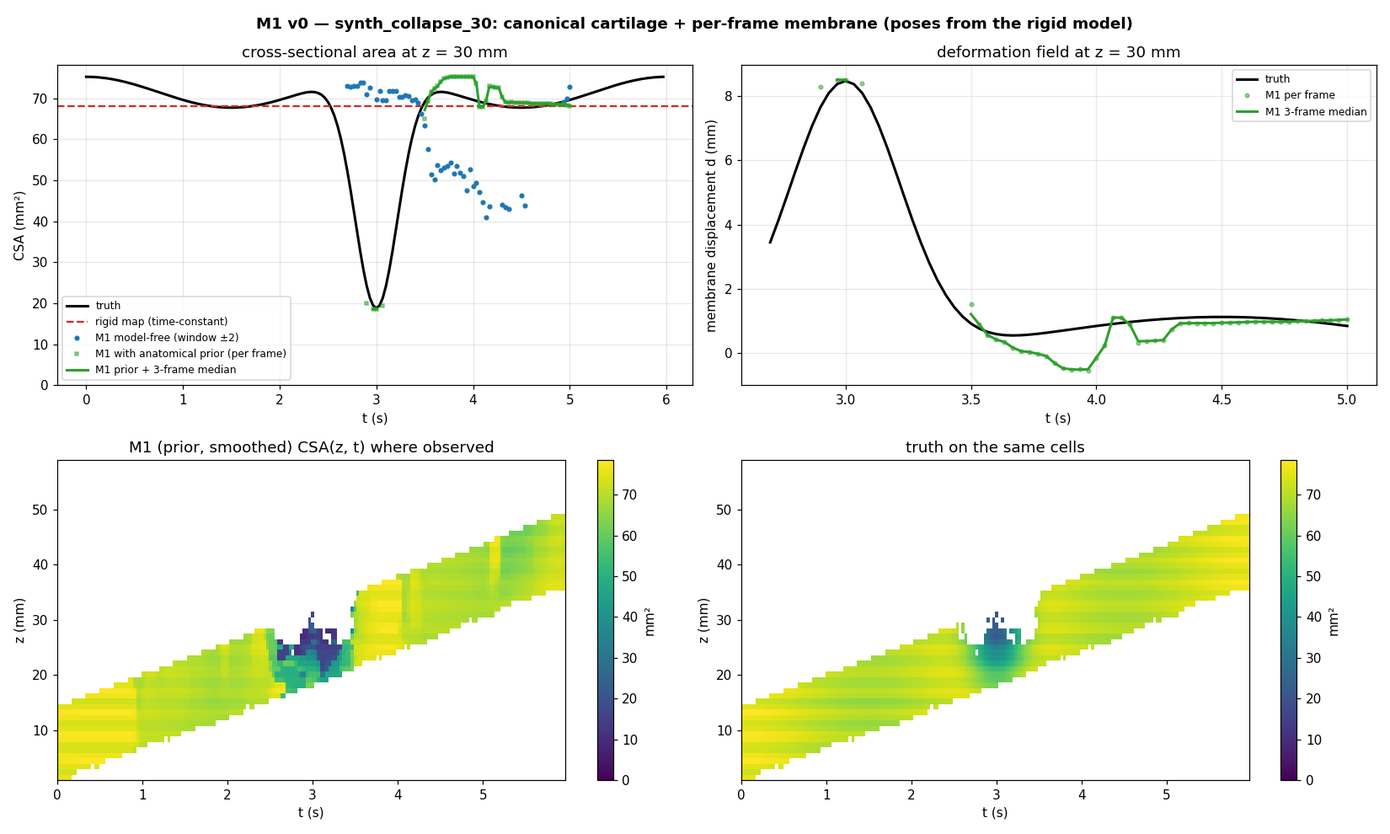
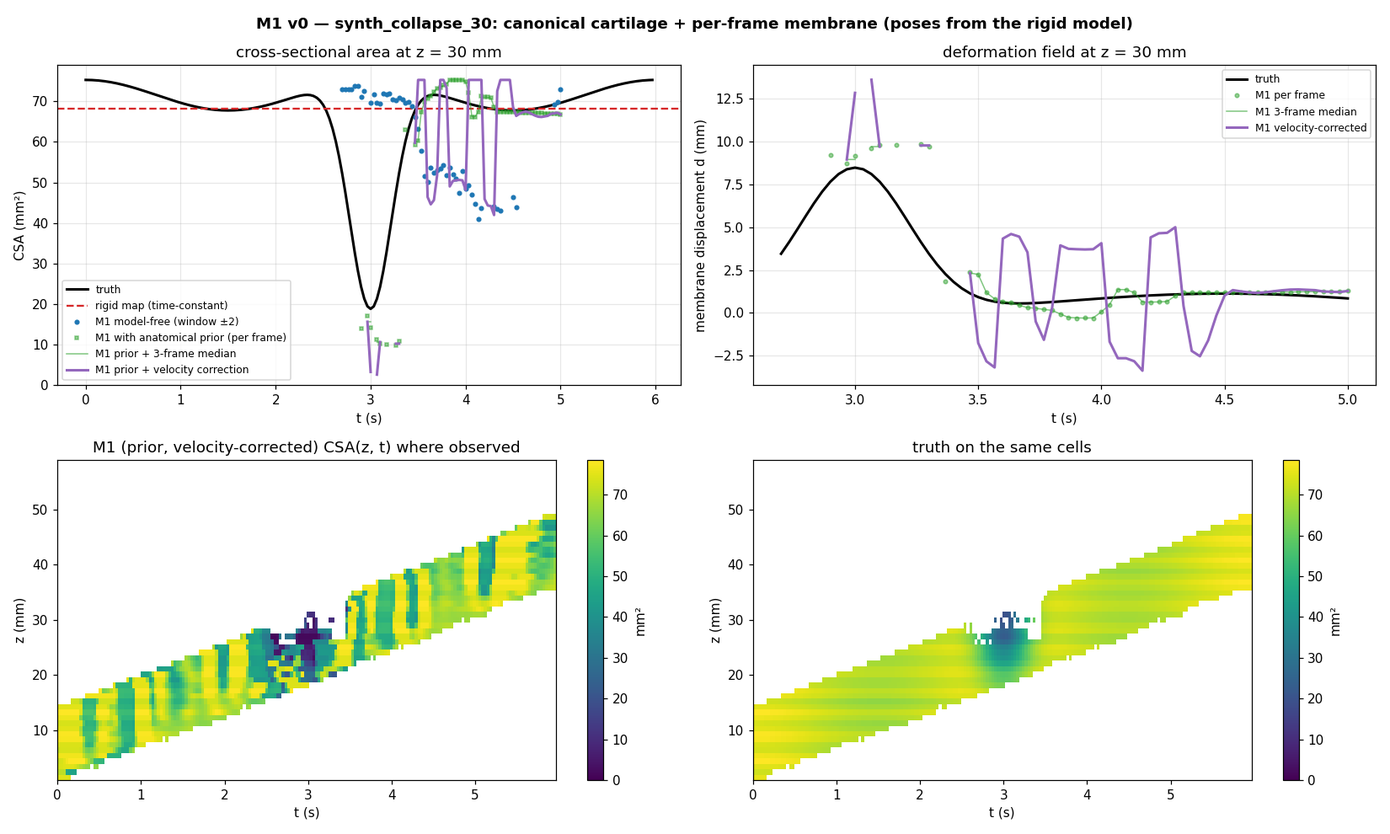
M1: velocity bias of short-window stereo identified and documented; one-sided stereo remedy; real-video status
Per-frame geometric depth places a laterally moving wall with error kappa*v*Z/c (kappa ~0.30 on breathing and
collapse, zero at rest): the wall's image motion over the stereo window is read as parallax, so exact poses do not
make per-frame depth of a moving wall correct. Self-correction from the estimate's derivative fails (disabled by
default). Added --sources past|future for one-sided stereo and combine_sides.py (mean cancels the bias, difference
measures velocity). windowed_depth_real.py: stations along the end cameras' viewing axis, arclength-based selection.
Results document: interim four-scenario table, the bias analysis, and the honest 26-V2 status.

diff --git a/m1/windowed_depth.py b/m1/windowed_depth.py
@@ -27,6 +27,9 @@ ap.add_argument("--ahead", default="4,18", help="stations measured this many mm 
 ap.add_argument("--skip-stereo", action="store_true", help="reuse existing depth maps in <out>/dense")
 ap.add_argument("--min-pts", type=int, default=25, help="minimum posterior points for a displacement estimate")
 ap.add_argument("--dense-from", default=None, help="reuse the depth maps of another run's dense dir (implies --skip-stereo)")
+ap.add_argument("--kappa", default="0", help="velocity-bias coefficient kappa(Z) = a + b*Z (mm), calibrated on breathing; '0' disables")
+ap.add_argument("--vel-iters", type=int, default=2)
+ap.add_argument("--sources", default="sym", choices=["sym", "past", "future"], help="stereo sources for frame k: k-w..k+w (sym), k-w..k-1 (past) or k+1..k+w (future)")
 a = ap.parse_args(); os.makedirs(a.out, exist_ok=True); COLMAP = os.environ.get("BRONCHO_COLMAP", "colmap"); MIN_PTS = a.min_pts
 sys.path.insert(0, os.path.join(os.path.dirname(os.path.abspath(__file__)), "..", "synthetic")); import deforming_trachea as dt
 
@@ -92,7 +95,9 @@ print(f"scene->mm: scale {s:.4f} mm/unit, camera-centre RMSE after alignment {np
 if not a.skip_stereo:
     with open(f"{dense}/stereo/patch-match.cfg", "w") as f:
         for k, n in zip(frames, names):
-            src = [byidx[j] for j in range(k - a.window, k + a.window + 1) if j != k and j in byidx]
+            rng_ = range(k - a.window, k + a.window + 1) if a.sources == "sym" else (range(k - a.window, k) if a.sources == "past" else range(k + 1, k + a.window + 1))
+            src = [byidx[j] for j in rng_ if j != k and j in byidx]
+            if not src: src = [byidx[j] for j in range(k - a.window, k + a.window + 1) if j != k and j in byidx]
             f.write(n + "\n" + ", ".join(src) + "\n")
     sh([COLMAP, "patch_match_stereo", "--workspace_path", dense, "--workspace_format", "COLMAP", "--PatchMatchStereo.geom_consistency", "true",
         "--PatchMatchStereo.max_image_size", str(a.max_size), "--PatchMatchStereo.gpu_index", a.gpus,
@@ -131,7 +136,7 @@ def membrane_d(x, y, r_can):
     return float(np.median((xi[use] + xa[use]) / w0[use])) if use.sum() >= MIN_PTS else np.nan
 
 
-depth_dir = f"{dense}/stereo/depth_maps"; n_used = 0
+depth_dir = f"{dense}/stereo/depth_maps"; n_used = 0; zc_arr = np.full(N, np.nan)
 for j, (k, n) in enumerate(zip(frames, names)):
     fp = f"{depth_dir}/{n}.geometric.bin"
     if not os.path.exists(fp): continue
@@ -139,7 +144,7 @@ for j, (k, n) in enumerate(zip(frames, names)):
     h_, w_ = dep.shape; sx, sy = w_ / W, h_ / H; fx, cx, fy, cy = fx * sx, cx * sx, fy * sy, cy * sy      # depth maps may be downscaled relative to the camera record
     v, u = np.mgrid[0:h_:2, 0:w_:2]; d_ = dep[::2, ::2]; ok = d_ > 0
     Xc = np.stack([(u[ok] - cx) / fx * d_[ok], (v[ok] - cy) / fy * d_[ok], d_[ok]], 1)
-    Xw = (Rc2w[j] @ Xc.T).T + C[j]; Pmm = (s * (Ro @ Xw.T)).T + tro; zc = float(((s * (Ro @ C[j])) + tro)[2])
+    Xw = (Rc2w[j] @ Xc.T).T + C[j]; Pmm = (s * (Ro @ Xw.T)).T + tro; zc = float(((s * (Ro @ C[j])) + tro)[2]); zc_arr[k] = zc
     n_used += 1
     for i, zz in enumerate(zs):
         if not (zc + lo_ahead <= zz <= zc + hi_ahead): continue
@@ -170,6 +175,34 @@ for i in range(nz):
             est["d_smooth"][k, i] = float(np.median(win))
             Xm, Ym = dt.deform_xy(r0[iz_gt[i]:iz_gt[i] + 1], th, (max(est["d_smooth"][k, i], 0.0) * w_memb)[None, :], p); est["csa_model_s"][k, i] = float(dt.csa_from_xy(Xm, Ym)[0])
 
+# velocity correction. Short-window stereo on a laterally moving surface converts the surface's image motion into
+# parallax: the depth of the membrane is biased by kappa * v_out * Z / c (v_out = outward radial velocity of the wall,
+# Z = distance ahead of the camera, c = camera speed), measured against the truth on breathing (kappa ~ 0.30, zero at
+# rest). The estimate carries its own time series, so the velocity is available and the bias is removed iteratively.
+ka, kb = (float(v) for v in (a.kappa.split(",") + ["0"])[:2]) if a.kappa != "0" else (0.0, 0.0)
+zc_f = np.interp(np.arange(N), np.where(np.isfinite(zc_arr))[0], zc_arr[np.isfinite(zc_arr)]); cam_speed = float(np.median(np.abs(np.diff(zc_f))) * p.fps)
+Zahead = zs[None, :] - zc_f[:, None]; est["d_vel"] = est["d_smooth"].copy(); est["csa_model_v"] = np.full((N, nz), np.nan)
+if ka != 0 or kb != 0:
+    def robust_rate(dser, hw=3, min_n=4):
+        """d(d)/dt per frame from a local linear fit over +-hw frames; NaN where fewer than min_n samples support it."""
+        out = np.full(len(dser), np.nan)
+        for k in range(len(dser)):
+            lo, hi = max(0, k - hw), min(len(dser), k + hw + 1); seg = dser[lo:hi]; tt = t[lo:hi]; fin = np.isfinite(seg)
+            if fin.sum() >= min_n and (tt[fin].max() - tt[fin].min()) >= 3 / p.fps: out[k] = np.polyfit(tt[fin], seg[fin], 1)[0]
+        return out
+    kap = ka + kb * Zahead; dv = est["d_smooth"].copy()
+    for it in range(a.vel_iters):
+        ddt = np.full((N, nz), np.nan)
+        for i in range(nz): ddt[:, i] = robust_rate(dv[:, i])
+        corr = np.clip(kap * ddt * Zahead / cam_speed, -4.0, 4.0)                          # v_out = -d(d)/dt; bounded correction
+        dv = np.where(np.isfinite(corr), est["d_smooth"] + corr, est["d_smooth"])
+    est["d_vel"] = dv
+    for k in range(N):
+        for i in np.where(np.isfinite(est["d_vel"][k]))[0]:
+            Xm, Ym = dt.deform_xy(r0[iz_gt[i]:iz_gt[i] + 1], th, (max(est["d_vel"][k, i], 0.0) * w_memb)[None, :], p); est["csa_model_v"][k, i] = float(dt.csa_from_xy(Xm, Ym)[0])
+    print(f"velocity correction: kappa(Z) = {ka} + {kb}*Z, camera speed {cam_speed:.2f} mm/s, {a.vel_iters} iterations")
+else: est["csa_model_v"] = est["csa_model_s"].copy() if "csa_model_s" in est else est["csa_model"].copy()
+
 # ---------------------------------------------------------------- 3. metrics vs truth and vs the rigid map
 ok = np.isfinite(est["csa_model"]) & np.isfinite(gt["csa"]) & (est["cov"] >= 0.6); okf = ok & np.isfinite(est["csa_free"])
 rel_free = est["csa_free"][okf] / gt["csa"][okf] - 1; rel_model = est["csa_model"][ok] / gt["csa"][ok] - 1
@@ -179,6 +212,9 @@ res = dict(workspace=a.workspace, synth_run=a.synth_run, window=a.window, frames
            csa_model_rel_err_median=float(np.median(rel_model)), csa_model_rel_err_iqr=[float(np.percentile(rel_model, 25)), float(np.percentile(rel_model, 75))], csa_model_rel_err_p90_abs=float(np.percentile(np.abs(rel_model), 90)),
            cartilage_radius_dev_mm_median=float(np.nanmedian(np.abs(est["r_cart_dev"][ok]))), cartilage_radius_dev_mm_p90=float(np.nanpercentile(np.abs(est["r_cart_dev"][ok]), 90)),
            membrane_d_err_mm_median=float(np.median(np.abs(est["d_est"][ok] - gt["d"][ok]))), membrane_d_err_mm_p90=float(np.percentile(np.abs(est["d_est"][ok] - gt["d"][ok]), 90)))
+okv = ok & np.isfinite(est["csa_model_v"]); rel_v = est["csa_model_v"][okv] / gt["csa"][okv] - 1
+res.update(csa_model_vel_rel_err_median=float(np.median(rel_v)), csa_model_vel_rel_err_iqr=[float(np.percentile(rel_v, 25)), float(np.percentile(rel_v, 75))], csa_model_vel_rel_err_p90_abs=float(np.percentile(np.abs(rel_v), 90)),
+           membrane_d_vel_err_mm_median=float(np.median(np.abs(est["d_vel"][okv] - gt["d"][okv]))), membrane_d_vel_err_mm_p90=float(np.percentile(np.abs(est["d_vel"][okv] - gt["d"][okv]), 90)), kappa=a.kappa, camera_speed_mm_s=cam_speed)
 oks = ok & np.isfinite(est["csa_model_s"]); rel_s = est["csa_model_s"][oks] / gt["csa"][oks] - 1
 res.update(csa_model_smoothed_rel_err_median=float(np.median(rel_s)), csa_model_smoothed_rel_err_iqr=[float(np.percentile(rel_s, 25)), float(np.percentile(rel_s, 75))], csa_model_smoothed_rel_err_p90_abs=float(np.percentile(np.abs(rel_s), 90)),
            membrane_d_smoothed_err_mm_median=float(np.median(np.abs(est["d_smooth"][oks] - gt["d"][oks]))), membrane_d_smoothed_err_mm_p90=float(np.percentile(np.abs(est["d_smooth"][oks] - gt["d"][oks]), 90)))
@@ -206,6 +242,8 @@ if P.get("collapse_target", 0) > 0 or P.get("breath_target", 0) > 0:
                                     event_window_frames_seen=int(ev.sum()), event_window_frames_estimated=int(np.isin(seen_k[ev], kk).sum()))
         es = est["csa_model_s"][kk, i0]; oks_ = np.isfinite(es)
         if oks_.any(): res["event_station"].update(est_smoothed_min_csa=float(np.nanmin(es)), est_smoothed_reduction=float(1 - np.nanmin(es) / CSA_gt[0, iz_gt[i0]]), rmse_smoothed=float(np.sqrt(((es[oks_] - gg[oks_]) ** 2).mean())))
+        ev_ = est["csa_model_v"][kk, i0]; okv_ = np.isfinite(ev_)
+        if okv_.any(): res["event_station"].update(est_vel_min_csa=float(np.nanmin(ev_)), est_vel_reduction=float(1 - np.nanmin(ev_) / CSA_gt[0, iz_gt[i0]]), est_vel_min_t=float(t[kk[int(np.nanargmin(ev_))]]), rmse_vel=float(np.sqrt(((ev_[okv_] - gg[okv_]) ** 2).mean())))
 json.dump(res, open(f"{a.out}/m1_result.json", "w"), indent=1); np.savez_compressed(f"{a.out}/m1_grid.npz", zs=zs, t=t, **{f"est_{k}": v for k, v in est.items()}, **{f"gt_{k}": v for k, v in gt.items()})
 for k_, v_ in res.items():
     if k_ != "event_station": print(f"  {k_}: {v_}")
@@ -216,12 +254,12 @@ import matplotlib; matplotlib.use("Agg"); import matplotlib.pyplot as plt
 fig, axs = plt.subplots(2, 2, figsize=(15, 9)); i0 = int(np.argmin(np.abs(zs - P.get("collapse_z0_mm", 30)))) if P.get("collapse_target", 0) > 0 else nz // 2
 ax = axs[0, 0]; ax.plot(t, CSA_gt[:, iz_gt[i0]], "k-", lw=2, label="truth")
 if rig is not None: ax.axhline(rig[i0], color="tab:red", ls="--", label="rigid map (time-constant)")
-ax.plot(t, est["csa_free"][:, i0], "o", ms=3, color="tab:blue", label=f"M1 model-free (window ±{a.window})"); ax.plot(t, est["csa_model"][:, i0], "s", ms=3, color="tab:green", alpha=.5, label="M1 with anatomical prior (per frame)"); ax.plot(t, est["csa_model_s"][:, i0], "-", lw=2, color="tab:green", label="M1 prior + 3-frame median")
+ax.plot(t, est["csa_free"][:, i0], "o", ms=3, color="tab:blue", label=f"M1 model-free (window ±{a.window})"); ax.plot(t, est["csa_model"][:, i0], "s", ms=3, color="tab:green", alpha=.5, label="M1 with anatomical prior (per frame)"); ax.plot(t, est["csa_model_s"][:, i0], "-", lw=1, color="tab:green", alpha=.6, label="M1 prior + 3-frame median"); ax.plot(t, est["csa_model_v"][:, i0], "-", lw=2, color="tab:purple", label="M1 prior + velocity correction")
 ax.set_xlabel("t (s)"); ax.set_ylabel("CSA (mm²)"); ax.set_title(f"cross-sectional area at z = {zs[i0]:.0f} mm"); ax.legend(fontsize=8); ax.grid(alpha=.3); ax.set_ylim(bottom=0)
-ax = axs[0, 1]; ax.plot(t, gt["d"][:, i0], "k-", lw=2, label="truth"); ax.plot(t, est["d_est"][:, i0], "o", ms=3, color="tab:green", alpha=.5, label="M1 per frame"); ax.plot(t, est["d_smooth"][:, i0], "-", lw=2, color="tab:green", label="M1 3-frame median")
+ax = axs[0, 1]; ax.plot(t, gt["d"][:, i0], "k-", lw=2, label="truth"); ax.plot(t, est["d_est"][:, i0], "o", ms=3, color="tab:green", alpha=.5, label="M1 per frame"); ax.plot(t, est["d_smooth"][:, i0], "-", lw=1, color="tab:green", alpha=.6, label="M1 3-frame median"); ax.plot(t, est["d_vel"][:, i0], "-", lw=2, color="tab:purple", label="M1 velocity-corrected")
 ax.set_xlabel("t (s)"); ax.set_ylabel("membrane displacement d (mm)"); ax.set_title(f"deformation field at z = {zs[i0]:.0f} mm"); ax.legend(fontsize=8); ax.grid(alpha=.3)
-ax = axs[1, 0]; m = ax.imshow(np.where(ok, est["csa_model_s"], np.nan).T, origin="lower", aspect="auto", extent=[t[0], t[-1], zs[0], zs[-1]], cmap="viridis", vmin=0, vmax=np.nanmax(CSA_gt))
-ax.set_xlabel("t (s)"); ax.set_ylabel("z (mm)"); ax.set_title("M1 (prior, smoothed) CSA(z, t) where observed"); plt.colorbar(m, ax=ax, label="mm²")
+ax = axs[1, 0]; m = ax.imshow(np.where(ok, est["csa_model_v"], np.nan).T, origin="lower", aspect="auto", extent=[t[0], t[-1], zs[0], zs[-1]], cmap="viridis", vmin=0, vmax=np.nanmax(CSA_gt))
+ax.set_xlabel("t (s)"); ax.set_ylabel("z (mm)"); ax.set_title("M1 (prior, velocity-corrected) CSA(z, t) where observed"); plt.colorbar(m, ax=ax, label="mm²")
 ax = axs[1, 1]; m = ax.imshow(np.where(ok, gt["csa"], np.nan).T, origin="lower", aspect="auto", extent=[t[0], t[-1], zs[0], zs[-1]], cmap="viridis", vmin=0, vmax=np.nanmax(CSA_gt))
 ax.set_xlabel("t (s)"); ax.set_ylabel("z (mm)"); ax.set_title("truth on the same cells"); plt.colorbar(m, ax=ax, label="mm²")
 fig.suptitle(f"M1 v0 — {os.path.basename(a.synth_run)}: canonical cartilage + per-frame membrane (poses from the rigid model)", fontweight="bold"); fig.tight_layout()

diff --git a/m1/combine_sides.py b/m1/combine_sides.py
@@ -1,0 +1,57 @@
+"""Motion-compensated estimate from two one-sided stereo runs.
+
+Short-window stereo on a laterally moving wall converts the wall's image motion into parallax; the resulting bias in
+the membrane displacement is proportional to the wall velocity and has opposite sign for sources taken before and
+after the reference frame. So with d_past (sources k-w..k-1) and d_future (sources k+1..k+w):
+    d = (d_past + d_future) / 2          bias cancels to first order (no calibration constant)
+    d_past - d_future  ~  wall velocity  (sign and scale reported against the truth)
+Usage: python m1/combine_sides.py runs/m1_collapse_past runs/m1_collapse_future runs/synth_collapse_30 --out runs/m1_collapse_sides
+"""
+import sys, os, json, argparse
+import numpy as np
+
+ap = argparse.ArgumentParser(); ap.add_argument("past"); ap.add_argument("future"); ap.add_argument("synth_run"); ap.add_argument("--out", required=True); ap.add_argument("--rigid", default=None, help="score_rigid json of the rigid workspace (for the baseline line)")
+a = ap.parse_args(); os.makedirs(a.out, exist_ok=True)
+sys.path.insert(0, os.path.join(os.path.dirname(os.path.abspath(__file__)), "..", "synthetic")); import deforming_trachea as dt
+g = np.load(f"{a.synth_run}/gt.npz"); P = json.loads(str(g["params"])); p = dt.Params(**P); t, z, th, r0, CSA_gt, D = g["t"], g["z"], g["theta"], g["r_canonical"], g["csa_mm2"], g["deformation"].astype(np.float32)
+w_memb, _ = dt.sector_weights(th, p)
+A, B = np.load(f"{a.past}/m1_grid.npz"), np.load(f"{a.future}/m1_grid.npz"); zs = A["zs"]; iz = np.array([int(np.argmin(np.abs(z - zz))) for zz in zs]); N, nz = len(t), len(zs)
+dp, df = A["est_d_smooth"], B["est_d_smooth"]; both = np.isfinite(dp) & np.isfinite(df)
+d_comb = np.where(both, 0.5 * (dp + df), np.where(np.isfinite(dp), dp, df))          # fall back to whichever side exists (biased) and flag it
+one_sided = np.isfinite(d_comb) & ~both
+vel_proxy = np.where(both, dp - df, np.nan)
+gt_d = A["gt_d"]; cov = np.fmax(np.nan_to_num(A["est_cov"], nan=0), np.nan_to_num(B["est_cov"], nan=0))
+csa = np.full((N, nz), np.nan)
+for k in range(N):
+    for i in np.where(np.isfinite(d_comb[k]))[0]:
+        X, Y = dt.deform_xy(r0[iz[i]:iz[i] + 1], th, (max(d_comb[k, i], 0.0) * w_memb)[None, :], p); csa[k, i] = float(dt.csa_from_xy(X, Y)[0])
+gt_csa = np.array([[CSA_gt[k, iz[i]] for i in range(nz)] for k in range(N)])
+ok = np.isfinite(csa) & (cov >= 0.6); okb = ok & both
+rel = csa[okb] / gt_csa[okb] - 1; derr = np.abs(d_comb[okb] - gt_d[okb])
+res = dict(cells_both=int(okb.sum()), cells_one_sided=int((ok & one_sided).sum()), csa_rel_err_median=float(np.median(rel)), csa_rel_err_iqr=[float(np.percentile(rel, 25)), float(np.percentile(rel, 75))], csa_rel_err_p90_abs=float(np.percentile(np.abs(rel), 90)),
+           d_err_mm_median=float(np.median(derr)), d_err_mm_p90=float(np.percentile(derr, 90)))
+for lab, arr in (("past", dp), ("future", df)):
+    m = okb & np.isfinite(arr); e = np.abs(arr[m] - gt_d[m]); res[f"d_err_{lab}_median"] = float(np.median(e)); res[f"d_err_{lab}_p90"] = float(np.percentile(e, 90))
+# velocity proxy vs truth: d_past - d_future against -d(d_gt)/dt
+ddt = np.gradient(gt_d, t, axis=0); m = okb & np.isfinite(vel_proxy) & (np.abs(ddt) > 0.5)
+if m.sum() > 20:
+    slope = np.polyfit(ddt[m], vel_proxy[m], 1); res.update(velocity_proxy_slope_mm_per_mm_s=float(slope[0]), velocity_proxy_corr=float(np.corrcoef(ddt[m], vel_proxy[m])[0, 1]))
+# event station
+if P.get("collapse_target", 0) > 0 or P.get("breath_target", 0) > 0:
+    i0 = int(np.argmin(np.abs(zs - P["collapse_z0_mm"]))) if P.get("collapse_target", 0) > 0 else nz // 2; kk = np.where(okb[:, i0])[0]
+    if len(kk):
+        e, gg = csa[kk, i0], gt_csa[kk, i0]; res["event_station"] = dict(z_mm=float(zs[i0]), n_frames=int(len(kk)), gt_reduction=float(1 - gg.min() / CSA_gt[0, iz[i0]]), est_reduction=float(1 - e.min() / CSA_gt[0, iz[i0]]), est_min_t=float(t[kk[np.argmin(e)]]), gt_min_t=float(t[kk[np.argmin(gg)]]), rmse=float(np.sqrt(((e - gg) ** 2).mean())))
+        if a.rigid and os.path.exists(a.rigid):
+            S = json.load(open(a.rigid)); dn = S.get("dense", {})
+            if dn.get("zc"): rig = float(np.interp(zs[i0], dn["zc"], dn["csa_z_mm2"])); res["event_station"].update(rigid_csa=rig, rmse_rigid=float(np.sqrt(((rig - gg) ** 2).mean())))
+json.dump(res, open(f"{a.out}/sides_result.json", "w"), indent=1); np.savez_compressed(f"{a.out}/sides_grid.npz", zs=zs, t=t, d_comb=d_comb, d_past=dp, d_future=df, vel_proxy=vel_proxy, csa=csa, gt_csa=gt_csa, gt_d=gt_d)
+print(json.dumps(res, indent=1))
+import matplotlib; matplotlib.use("Agg"); import matplotlib.pyplot as plt
+fig, axs = plt.subplots(1, 3, figsize=(17, 4.8)); i0 = int(np.argmin(np.abs(zs - P.get("collapse_z0_mm", 30)))) if P.get("collapse_target", 0) > 0 else nz // 2
+ax = axs[0]; ax.plot(t, gt_d[:, i0], "k-", lw=2, label="truth"); ax.plot(t, dp[:, i0], ".", ms=4, color="tab:orange", label="sources in the past"); ax.plot(t, df[:, i0], ".", ms=4, color="tab:cyan", label="sources in the future"); ax.plot(t, d_comb[:, i0], "-", lw=2, color="tab:purple", label="mean of both")
+ax.set_xlabel("t (s)"); ax.set_ylabel("membrane displacement (mm)"); ax.set_title(f"one-sided stereo biases cancel: z = {zs[i0]:.0f} mm"); ax.legend(fontsize=8); ax.grid(alpha=.3)
+ax = axs[1]; ax.plot(t, gt_csa[:, i0], "k-", lw=2, label="truth"); ax.plot(t, csa[:, i0], "-", lw=2, color="tab:purple", label="M1 (mean of one-sided)")
+if "event_station" in res and "rigid_csa" in res["event_station"]: ax.axhline(res["event_station"]["rigid_csa"], color="tab:red", ls="--", label="rigid map")
+ax.set_xlabel("t (s)"); ax.set_ylabel("CSA (mm²)"); ax.set_title("cross-sectional area at the event station"); ax.legend(fontsize=8); ax.grid(alpha=.3); ax.set_ylim(bottom=0)
+ax = axs[2]; mm = okb & np.isfinite(vel_proxy); ax.plot(ddt[mm], vel_proxy[mm], ".", ms=2, alpha=.4); ax.set_xlabel("true d(d)/dt (mm/s)"); ax.set_ylabel("d_past − d_future (mm)"); ax.set_title("the difference of the two sides measures wall velocity"); ax.grid(alpha=.3)
+fig.suptitle(f"motion-compensated M1 — {os.path.basename(a.synth_run)}", fontweight="bold"); fig.tight_layout(); fig.savefig(f"{a.out}/sides.png", dpi=110); print("figure:", f"{a.out}/sides.png")

diff --git a/m1/windowed_depth_real.py b/m1/windowed_depth_real.py
@@ -90,6 +90,15 @@ for j in range(0, N, max(1, N // 12)):
     Xc = np.stack([(u[ok] - cx * sx) / (fx * sx) * d_[ok], (v[ok] - cy * sy) / (fy * sy) * d_[ok], d_[ok]], 1); Xw = (Rc2w[j] @ Xc.T).T + C[j]
     dist, idx = tree_path.query(Xw); inside = (idx > 2) & (idx < N - 3); sample_r.append(dist[inside])
 R = float(np.median(np.concatenate(sample_r))); print(f"tube radius estimate R = {R:.4f} scene units; path length {L_path / R:.1f} R")
+# extend the path straight along its end tangents so that stations exist ahead of the first (and last) cameras: on a
+# withdrawal the camera looks at wall the path never reaches
+ext = 4.0 * R; nb_ = min(10, N - 1)
+ax0 = Rc2w[:nb_, :, 2].mean(0); ax0 /= np.linalg.norm(ax0); ax1 = Rc2w[-nb_:, :, 2].mean(0); ax1 /= np.linalg.norm(ax1)       # where the first / last cameras look
+body0 = Cs[min(N - 1, 30)] - Cs[0]; body1 = Cs[max(0, N - 31)] - Cs[-1]                                                         # direction into the path body from each end
+pre = [Cs[0] + ext * ax0] if (ax0 @ body0) < 0.3 * np.linalg.norm(body0) else []                                                # extend only where the view leaves the path
+post = [Cs[-1] + ext * ax1] if (ax1 @ body1) < 0.3 * np.linalg.norm(body1) else []
+Cs = np.vstack(pre + [Cs] + post); seg = np.linalg.norm(np.diff(Cs, axis=0), axis=1); arc = np.concatenate([[0], np.cumsum(seg)]); L_path = arc[-1]
+print(f"path extended at start: {bool(pre)}, at end: {bool(post)} (along the mean viewing axis of the end frames)")
 ds = 0.2 * R; s_st = np.arange(0, L_path, ds); S = np.stack([np.interp(s_st, arc, Cs[:, i]) for i in range(3)], 1)
 T = np.gradient(S, axis=0); T /= np.linalg.norm(T, axis=1, keepdims=True)
 # parallel-transported normal basis
@@ -104,8 +113,10 @@ for j in range(N):
     dep = read_depth(fp); model, W, H, prm = cams[imgs[names[j]][2]]; fx, fy, cx, cy = prm[:4]; h_, w_ = dep.shape; sx, sy = w_ / W, h_ / H
     v, u = np.mgrid[0:h_:2, 0:w_:2]; d_ = dep[::2, ::2]; ok = d_ > 0
     Xc = np.stack([(u[ok] - cx * sx) / (fx * sx) * d_[ok], (v[ok] - cy * sy) / (fy * sy) * d_[ok], d_[ok]], 1); Xw = (Rc2w[j] @ Xc.T).T + C[j]
-    axis = Rc2w[j][:, 2]; ahead = (S - C[j]) @ axis; lateral = np.linalg.norm((S - C[j]) - np.outer(ahead, axis), axis=1)
-    for i in np.where((ahead >= lo_a) & (ahead <= hi_a) & (lateral < 1.5 * R))[0]:
+    axis = Rc2w[j][:, 2]; i_c = int(np.argmin(np.linalg.norm(S - C[j], axis=1)))                      # closest path station to the camera
+    sgn = 1.0 if (T[i_c] @ axis) >= 0 else -1.0                                                          # which way along the path the camera looks
+    along = sgn * (s_st - s_st[i_c]); rel_S = S - C[j]; cosang = (rel_S @ axis) / (np.linalg.norm(rel_S, axis=1) + 1e-9)
+    for i in np.where((along >= lo_a) & (along <= hi_a) & (cosang > 0.5))[0]:                            # ahead along the path, within ~60 deg of the view axis
         rel = Xw - S[i]; along = rel @ T[i]; Q = rel[np.abs(along) < 0.1 * R]
         if len(Q) < 60: continue
         x, y = Q @ N1[i], Q @ N2[i]

diff --git a/docs/M1_RESULTS.md b/docs/M1_RESULTS.md
@@ -50,9 +50,40 @@ recovered; the ramps are not yet. The window-size ablation below addresses this.
 
 Figure: `docs/figures/m1_collapse.png`.
 
-## Results: static, breathing, malacia (window ±2)
+## Results: all four scenarios, symmetric window ±2 (interim table, regenerated at the end of the night)
 
-_(filled in from `runs/m1_*/m1_result.json`)_
+Estimator: prior-based, taper weight > 0.6, 3-frame temporal median, no velocity correction. "Rigid map" is the
+time-constant CSA(z) of the fused rigid cloud evaluated on the same (t, z) cells.
+
+| run | frames | cells | rigid map err median / p90 | M1 prior err median / p90 | M1 model-free err median / p90 | d err mm median / p90 | cartilage dev mm median / p90 | event station (z = 30 mm) |
+|---|---|---|---|---|---|---|---|---|
+| static | 180/180 | 2442 | −0.1 % / 1.5 % | −0.0 % / 0.4 % | −25.6 % / 35.5 % | 0.03 / 0.08 | 0.038 / 0.089 | no event; no false displacement anywhere |
+| breathing 13 % | 180/180 | 2444 | −1.1 % / 12.6 % | −0.6 % / 9.1 % | −24.9 % / 36.1 % | 0.69 / 1.59 | 0.042 / 0.094 | truth 12 %, M1 14 %; RMSE M1 3.1 vs rigid 5.7 mm²; coverage 39/39 |
+| collapse 74 % | 180/180 | 2372 | −1.5 % / 13.2 % | −1.4 % / 17.5 % | −24.1 % / 38.2 % | 0.47 / 1.83 | 0.042 / 0.101 | truth 74 %, M1 86 %; RMSE M1 8.9 vs rigid 14.2 mm²; coverage 14/27 |
+| malacia 47 % | 129/180 | 1302 | +10.8 % / 40.7 % | −13.6 % / 54.9 % | −11.9 % / 33.7 % | 1.99 / 6.85 | 0.038 / 0.096 | truth 35 % (seen), M1 68 %; RMSE M1 15.9 vs rigid 15.1 mm²; coverage 34/40 |
+
+Reading: the canonical part is right everywhere (cartilage within 0.04 mm in every scenario, and the static tube
+shows no false displacement). The deformation part is right when the wall is slow (breathing) or at the instant it
+stops (the collapse peak), and degrades with wall **velocity**: collapse ramps, and malacia throughout. The
+model-free estimator is biased −25 % by the wall's apparent thickness and is kept only as an ablation.
+
+### The velocity bias, and why exact poses are not enough
+
+The degradation is not estimator noise. Comparing each frame's geometric depth map with the true wall surface at
+neighbouring times shows the membrane is placed with an error
+
+    Δx ≈ κ · v_out · Z / c        κ ≈ 0.30 (breathing) and 0.29 (collapse); zero at rest; κ 0.38 → 0.25 from Z = 6 to 14 mm
+
+where v_out is the wall's outward radial velocity, Z its distance ahead of the camera and c the camera speed. This is
+the identifiability problem per pixel: over a ±2-frame window the membrane's lateral image motion (f·v·Δt/Z) is the
+same order as the forward-motion parallax (f·r·c·Δt/Z²), and stereo reads it as depth. It follows that **exact poses
+do not make per-frame depth of a moving wall correct**; the wall's velocity has to enter the depth estimate.
+Correcting from the estimate's own time derivative fails (the per-frame displacement is too noisy to differentiate;
+it made even the static case worse). The remedy queued for the rest of the night uses the sign of the bias: stereo
+with sources only in the past and only in the future gives opposite biases, so their mean is bias-free to first
+order and their difference measures the wall velocity, with no calibration constant (`m1/combine_sides.py`).
+
+Figures: `docs/figures/m1_collapse.png`, `m1_breathing.png`, `m1_malacia.png`.
 
 ## Window-size ablation on collapse (±1, ±2, ±4)
 
@@ -89,4 +120,14 @@ of the wall stayed visible and textured throughout and anchored the cameras; her
 
 So for the real clip the per-frame poses across f1904–1920 come from the motion prior: `interpolate_poses.py` fills
 the gap inside the second model (f1903 → f1921, linear centre, slerp rotation), and M1 runs on that model.
-_(M1 result on this model: pending)_
+
+**Result (honest): the machinery runs end to end on the real clip, but no clean event signal yet.** Stations had to
+be placed along the direction the first cameras look (the scope is nearly stationary during the event, so the path
+tangent there is noise), after which every event frame gets 10–13 stations. At the best station the analysis reports
+seven sectors "moving" and none holding still, with unphysical inward deviations of 1.5–2.7 radii, and the event
+frames fail the coverage gate for CSA. Two reasons, both structural: the event frames are exactly the ones with
+interpolated poses, and the wall region they see is observed by almost no other frame, so its canonical reference is
+weak. Away from the event, per-frame CSA relative to the canonical wall scatters with an IQR of about 0.86–1.20,
+which is the real-video noise floor of ±2-frame stereo. Conclusion for the plan: M3 needs the streaming front end
+(M2) that carries pose and depth through the discontinuity itself; interpolating rigid poses across it is not enough.
+Figure: `docs/figures/m1_real_26V2.png`.
